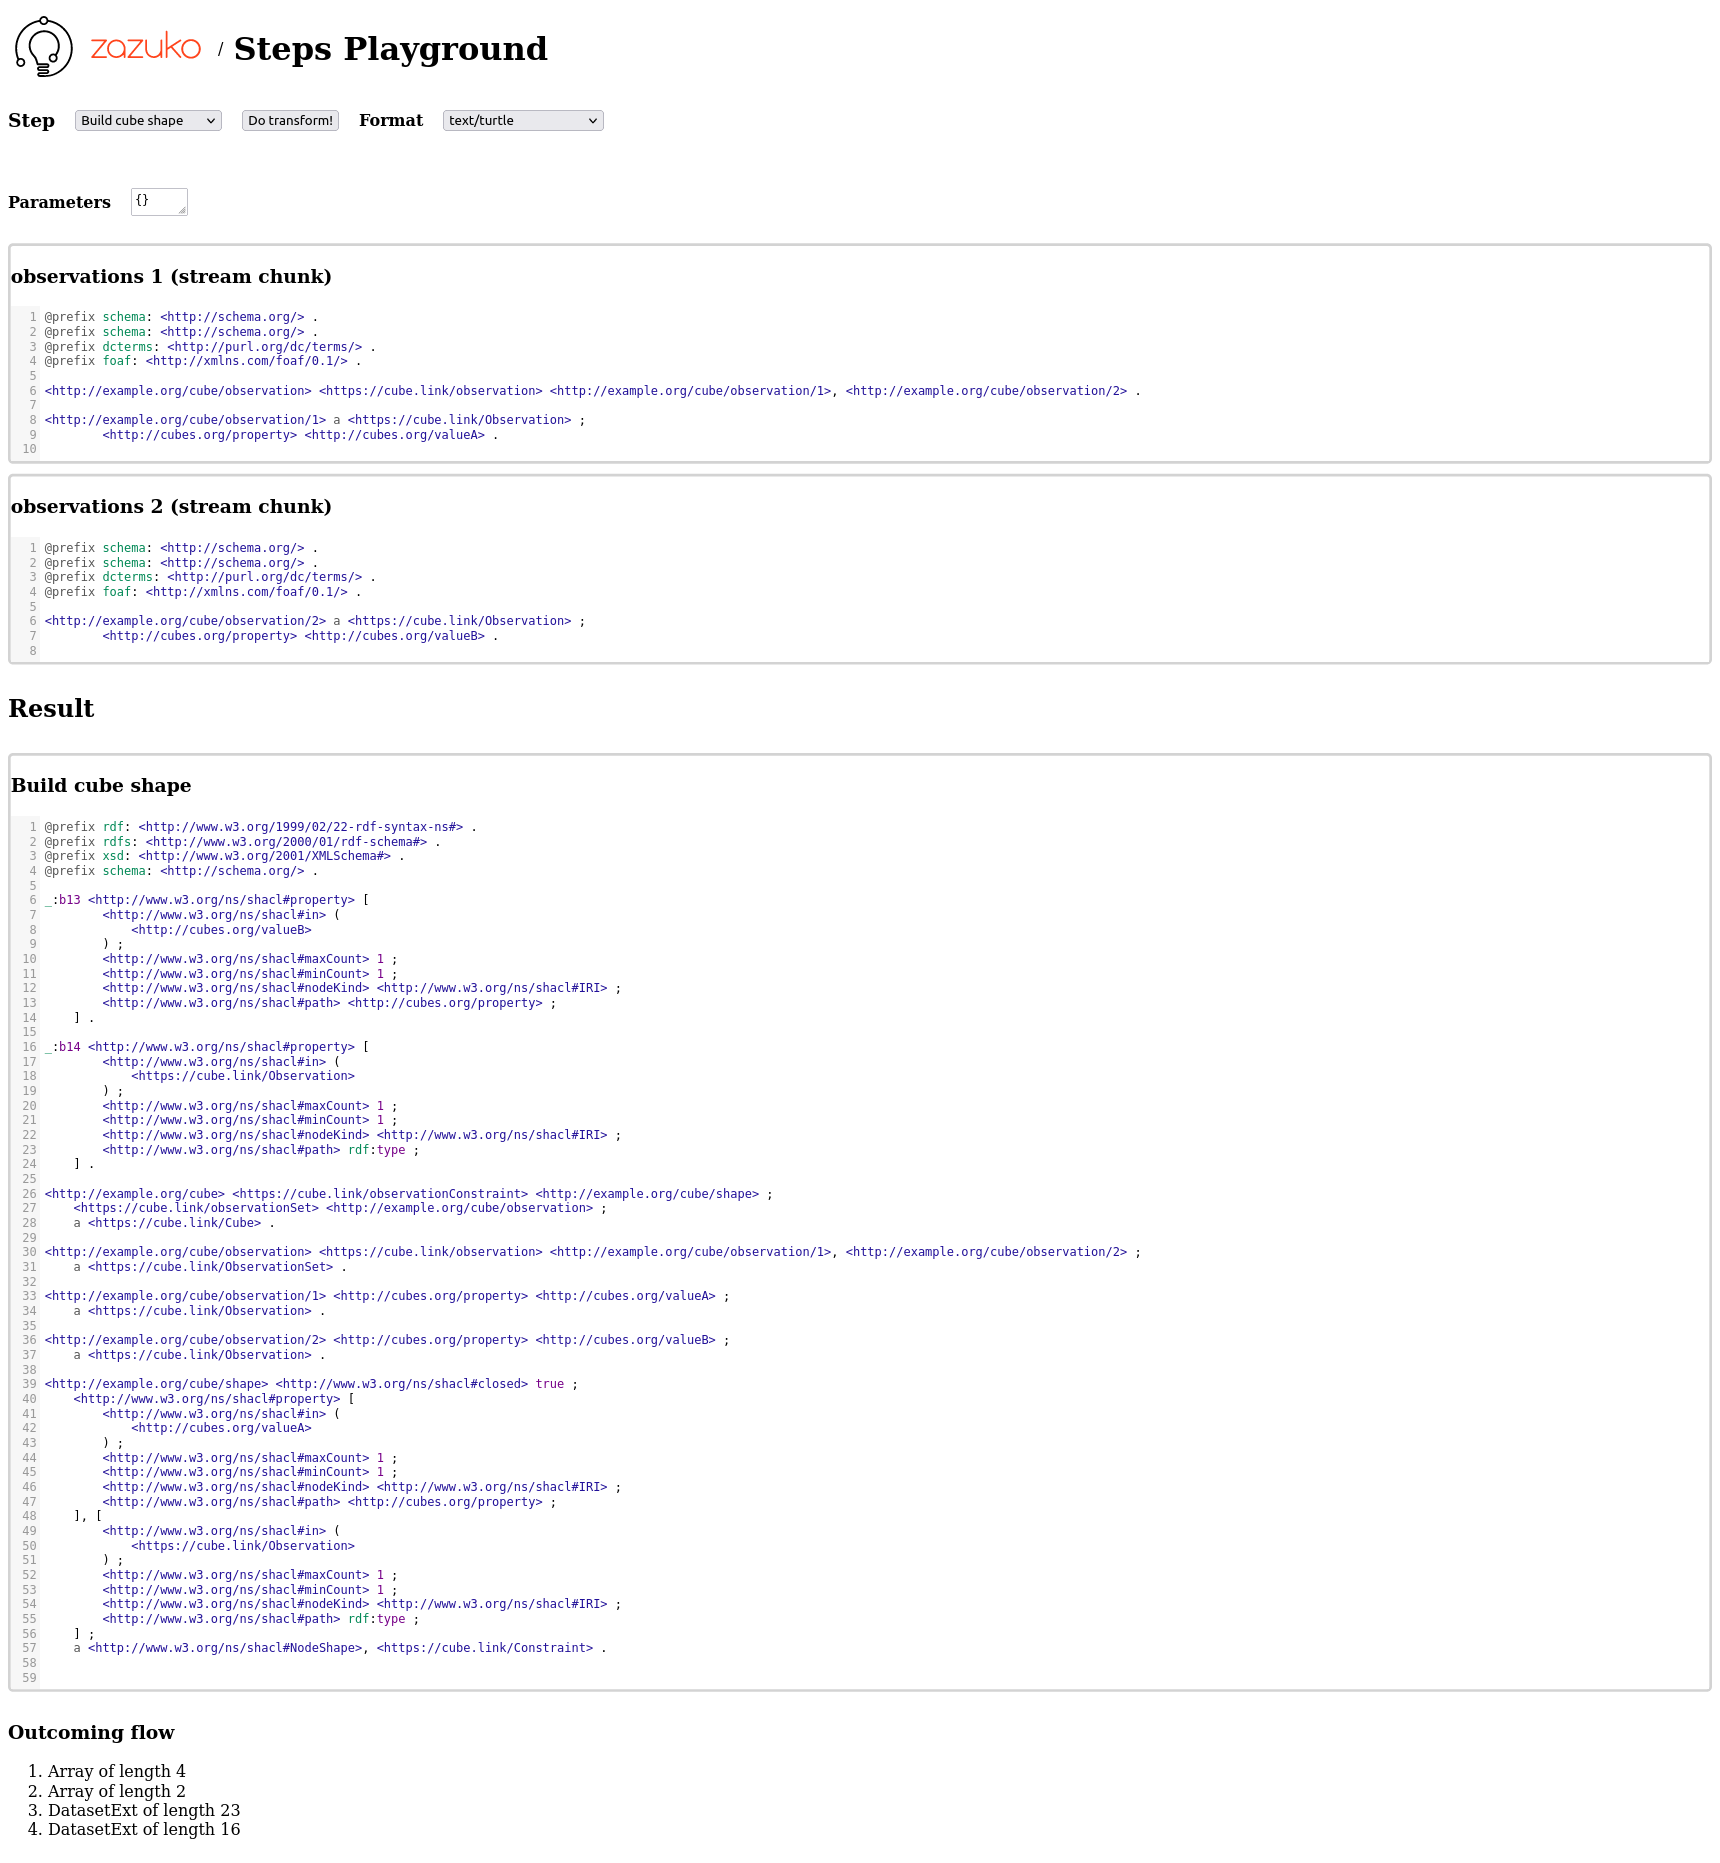
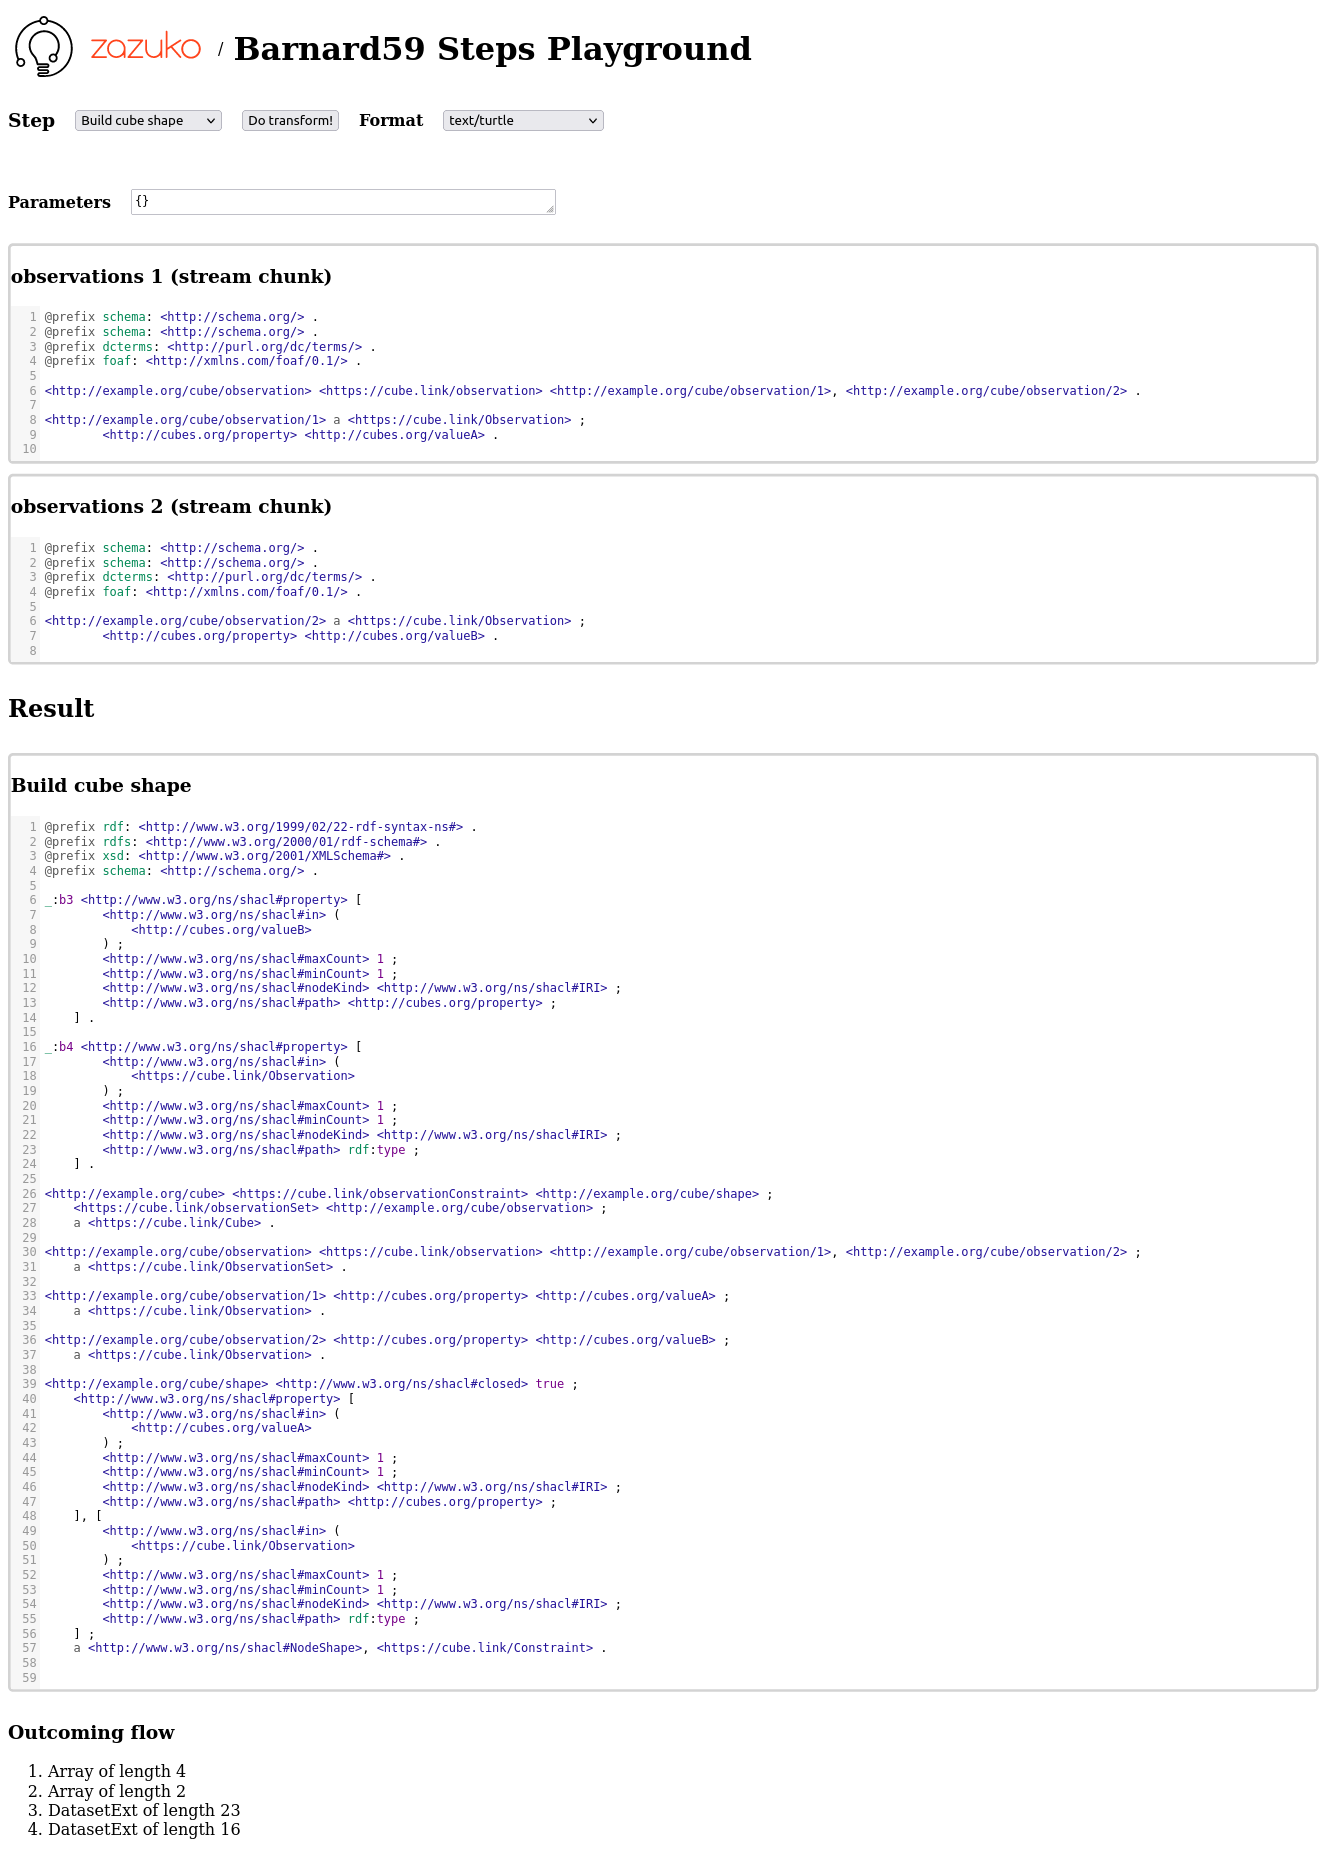
readme

diff --git a/src/components/Header.vue b/src/components/Header.vue
@@ -33,7 +33,7 @@
     </div>
     <span>/</span>
     <h1>
-      Steps Playground
+      Barnard59 Steps Playground
     </h1>
   </div>
 </template>

diff --git a/README.md b/README.md
@@ -1,6 +1,6 @@
 # barnard59-steps-playground
 
-Utility to document distinct transforms that are not evident
+Utility to explain and document barnard59 Steps that are not self-evident
 
 ### Screenshot
 
